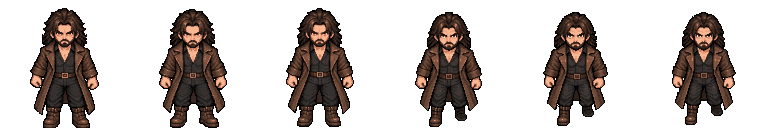
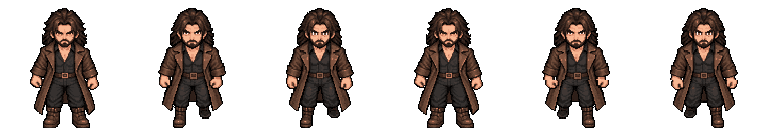
Tepes: o passo de frente firme e com os dois pés
A vista de frente do PixelLab encolhia o Tepes no meio do ciclo e tirava os pés do chão, e só um pé levantava.
Cada quadro volta à altura do primeiro com os pés no chão, e o ciclo ganhou o passo do outro pé (o mesmo
quadro espelhado da cintura para baixo).

diff --git a/docs/EM-ABERTO.md b/docs/EM-ABERTO.md
@@ -165,6 +165,10 @@ Conversa aberta na nuvem (claude.ai/code), num clone limpo do GitHub: **o que es
 - **O andar (16/10):** `walking` do PixelLab em 128 (2 gerações por direção, uma direção por pedido no plano de teste):
   sul, leste e norte; o oeste espelha o leste; as diagonais andam com o da frente (SE, SW) ou de costas (NE, NW),
   paradas ficam com a pose delas. Montagem: `pixellab/montar.py` (os quadros de cada direção descem juntos).
+  **Firmado (16/10, o Felipe: "andando duro, travadão"):** a vista de frente encolhia de 119 a 112 px e tirava os
+  pés do chão (`pixellab/firmar.py` volta cada quadro à altura do primeiro e assenta os pés), e o PixelLab tinha dado
+  só meio passo (o mesmo pé levantava); `pixellab/ciclo.py` monta o ciclo inteiro: apoio, passo direito, apoio e o
+  mesmo passo espelhado da cintura para baixo (o esquerdo).
   **Falta:** o andar das 4 diagonais (8 gerações) e uma respiração no parado.
 - **Antes (64px):** a animação de andar e a de parado faltavam (ele andava deslizando com a pose parada). No PixelLab,
   `POST /characters/animations` custa 1 geração por direção (8 no total); a conta está no plano de teste com 8
